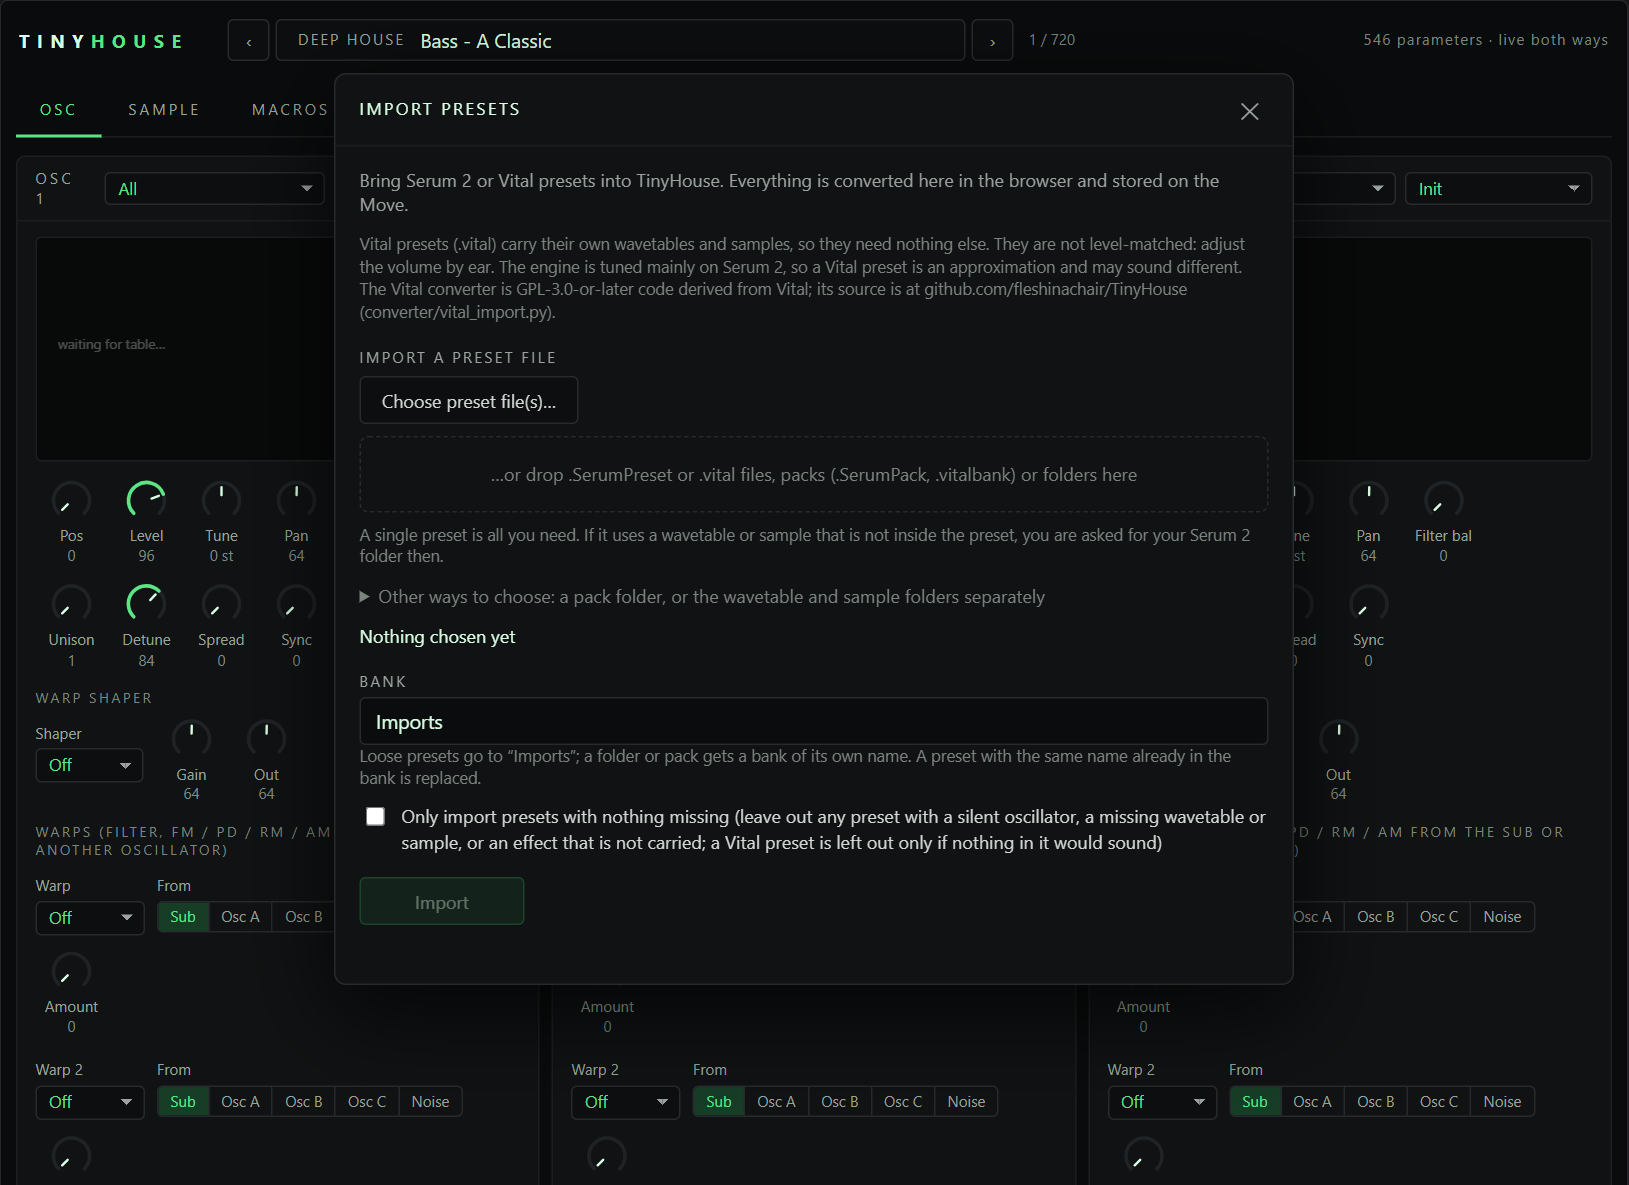
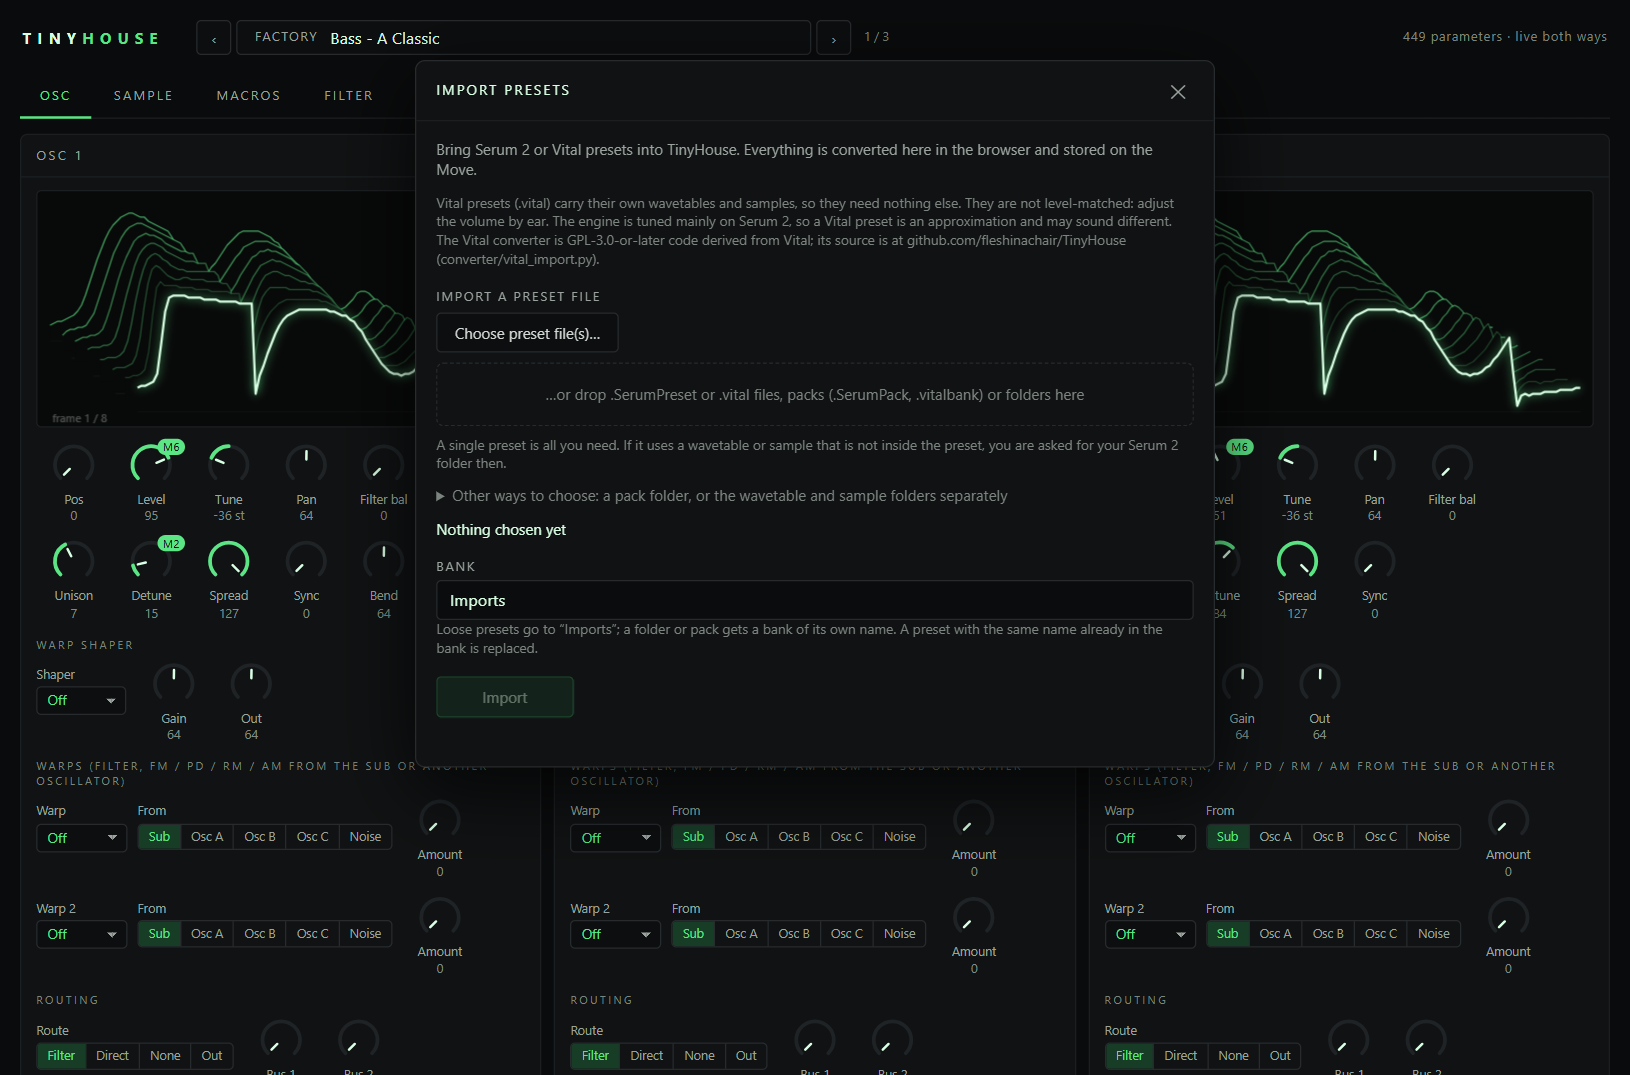
README: everything through the remote UI; presets that upgrade themselves; new import screenshot
- The Python importer section is gone from the user guide (developers find it through docs/DEVELOPMENT.md); "What you need" no longer asks for Python or Serum on Windows.
- Import: every preset that converts is imported and the report lists what it misses (the "only presets with nothing missing" option is gone); about one in four factory presets miss something and improve with later versions; ticked banks of a Serum Presets folder each get their own bank.
- New section "Updates improve your presets": originals kept on the Move, only the presets an update can change are converted again, re-import once for presets from before 0.9.13. TinyHouse Sources added to the file table.
- Stale limits fixed: a second distortion and tempo-synced Vital mod FX are carried (0.9.12); "363 of 626 import" replaced. Build steps use build_converter_dir.py; upgrading copies the converter folder and needs a Move restart.
- docs/img/remote-import.png retaken (no checkbox). help.json: Import is under the preset name; imported presets get better after an update.

diff --git a/README.md b/README.md
@@ -10,9 +10,8 @@ TinyHouse is its own engine on a small ARM box, not a copy of Serum or Vital: **
 or Vital original, but not the same.** Some come out very close, some less so, and a bank will always have a few that miss. Some features are not built yet (see
 [What is supported](#what-is-supported)), and a preset that leans on one of them loses that part of its sound; the import report says which. The same goes for Vital presets: the engine emulates Vital's oscillators, envelopes, filters and effects loosely, not exactly, and a Vital preset is not level-matched, so set its volume by ear.
 
-**This is experimental.** Importing in the browser is the easy route; it sets loudness, reverb and width from general rules. If you have Serum 2 on Windows and
-want presets to land closer to what you hear in the plugin, use the [Python scripts](#more-accurate-conversion-with-the-python-scripts), which can compare
-each preset against your own copy of it.
+**This is experimental.** Everything happens in the remote UI in your browser. Loudness, reverb and width are set from general rules, not matched to the plugin,
+so set them by ear. Presets you import get better on their own as TinyHouse is updated (see [Updates improve your presets](#updates-improve-your-presets)).
 
 ![The TinyHouse remote UI: tabs along the top, three wavetable oscillators on the Osc tab](docs/img/remote-ui.png)
 
@@ -22,8 +21,7 @@ each preset against your own copy of it.
 - Serum 2 presets (`.SerumPreset` files or a `.SerumPack`). Or Vital presets (`.vital` files, loose or zipped, or a `.vitalbank`; they carry their own wavetables and samples, so they need no other install). Nothing from Xfer or Vital Audio is included.
 - Serum 2 installed on your computer, for any preset that uses Serum's own wavetables or samples (most factory presets do). Serum's installer puts those files in your
   `Documents\Xfer\Serum 2 Presets` folder, and TinyHouse reads them from there; the plugin itself does not have to run. Without that folder those oscillators are silent.
-  Wavetables and samples stored inside the preset file itself are imported with it and need nothing from Serum 2. Serum 2 on Windows is also needed for the more accurate
-  [Python route](#more-accurate-conversion-with-the-python-scripts) (with Python 3.13).
+  Wavetables and samples stored inside the preset file itself are imported with it and need nothing from Serum 2.
 
 The browser import runs the converter inside the page, so it needs no Python on your computer, but the browser needs internet access (it loads the Python runtime from a CDN).
 
@@ -48,13 +46,25 @@ The browser import runs the converter inside the page, so it needs no Python on 
 - **Chrome's "Upload N files to this site?" prompt** appears when you choose a folder. Nothing is uploaded: the page reads the folder in your browser and sends only
   the files your presets use to the Move. Dropping the folder on the dialog avoids the prompt. For a folder picker that remembers your Serum folder (Chrome and
   Edge), add the Move's address (e.g. `http://move.local:7700`) to `chrome://flags/#unsafely-treat-insecure-origin-as-secure`, enable it and relaunch.
-- For a whole bank at once (Factory, a pack), use **Import whole banks from this folder** and tick the banks.
-- Press **Import**. Loose presets go into a bank called *Imports*, a pack or folder into a bank of its own name. A report lists each preset as *imported*,
-  *imported with parts missing* (and which) or *not imported* (and why).
+- For a whole bank at once, choose the folder that holds it. Choosing your whole Serum 2 Presets folder lists Factory, User and each pack you installed; tick the
+  ones you want and each goes into a bank of its own name.
+- Press **Import**. Loose presets go into a bank called *Imports*, a pack or folder into a bank of its own name. Every preset that converts is imported, including
+  ones with something missing, and the report lists what each one misses. Roughly one in four of Serum's factory presets miss an effect or a feature TinyHouse does
+  not have yet (see [What is supported](#what-is-supported)), so expect those to sound off; they improve as later versions add what is missing.
 
 4. **Play.** The new bank is in the preset browser. Pick a sound and it loads on the Move.
 
 Your presets go nowhere but your Move: the converter runs inside the browser page (which downloads the Python runtime it uses from a public CDN the first time).
+
+### Updates improve your presets
+
+Each preset you import keeps its original Serum or Vital file on the Move (in `UserLibrary/TinyHouse Sources/<bank>`), with a note of which parts of the converter
+it went through. When an update brings a better converter, the Move converts again the presets that update can change, in the background at low priority, and leaves
+the rest as they are. A preset that has not been done yet when you choose it is converted at once (the header reads "Upgrading to v..." for a moment). Nothing needs
+your computer or the remote UI, and you can play meanwhile.
+
+Presets imported before version 0.9.13 kept no original, so they cannot be upgraded: import them once more through the remote UI, with the same bank name (the
+wavetables and samples already on the Move are reused). The remote UI shows how many there are, and the Move's header reminds you once after an update.
 
 ## Tweaking and playing
 
@@ -138,11 +148,11 @@ There are also **two FX buses**, each a full copy of the rack, with their own os
 **Not carried yet**
 - FM, ring-mod and phase-distortion warps driven by the noise or by Filter 1; DLM, spectral tables, Sync Var.
 - Reverb filter models, and the rarer comb variants (Comb2, Combs).
-- A second distortion, compressor or delay; a filter placed before the distortion; sends moved by an LFO or envelope (the Distortion's Wet follows one).
+- A second compressor or delay; a filter placed before the distortion; sends moved by an LFO or envelope (the Distortion's Wet follows one).
 - The Bode frequency shifter: a preset whose only unsupported effect is a Bode imports without it and the report says so.
 - In Split and SplitMS branches, only the Distortion, Chorus / Flanger / Phaser (Distortion only for SplitMS), EQ and band reverbs are carried; a HyperD, Delay,
   Comp or Bode in a branch, and an EQ ahead of the distortion, are not.
-- Serum 1 presets (Serum 2 only). A Vital chorus, flanger or phaser that is tempo-synced still runs at its 120 BPM rate.
+- Serum 1 presets (Serum 2 only).
 
 A preset using something in the second list still imports, with that part left out, and the report says which.
 
@@ -151,38 +161,11 @@ A preset using something in the second list still imports, with that part left o
 Read these before you rely on it for a gig. TinyHouse is an early release (0.9).
 
 - **It sounds similar to the Serum 2 or Vital original, not identical.** Levels, filters, effects and the stereo image are matched against Serum (and, for Vital presets, measured against Vital), but some presets land closer than others. Reverb tails run 1 to 3 dB quieter than Serum's and the wet signal builds up a little faster.
-- **Not every preset comes across.** Of Serum 2's 626 factory presets, 363 import well enough to install. The rest use something listed under "Not carried yet" (Bode and some Filter FX models are the biggest groups) and are skipped, or import with that part left out. The import report says which.
-- **Tempo-synced chorus, flanger and phaser (Vital) do not follow the Move's tempo.** They run at their rate at 120 BPM. Synced LFOs do follow it.
+- **Every preset imports, but not every one sounds right yet.** Roughly one in four of Serum 2's factory presets use something listed under "Not carried yet" (a Filter FX that moves, Split bands, some Utils settings are the biggest groups) and import with that part left out. The import report says which, and an update that adds the feature fixes them on the Move.
 - **Heavy presets use a lot of CPU.** Measured on a Move over 720 installed presets, each held steady: the typical preset uses about a tenth of the Move's 2.9 ms audio block, the heaviest (Crescendo Bells) about 40 %, and about 40 presets have a block over half of it. One slot is fine; a set with several heavy slots can crackle, so use fewer of them or lighter presets. A dense granular preset is the most demanding thing it plays.
 - **The Move's wavetable list stops at 128 tables.** The WT1 to WT3 Table knobs list the first 128 tables of the library, or of the pack you pick with the WT Pack knob. A pack with more than 128 tables shows only its first 128 there.
 - **Macros: eight per slot, and the mapping is yours to keep tidy.** Assigning a macro never changes the sound, but if you move a control by hand afterwards the knob and the control drift apart until you press **Match knob**.
 - **You need your own Serum 2 files.** Nothing from Xfer or the preset authors is in this repository, and Serum 1 presets are not supported.
-
-## More accurate conversion with the Python scripts
-
-The Python importer does the same conversion but can also **play each preset through your own installed copy of Serum 2** and compare. That lets it:
-
-- **Set the loudness** of every preset from a measurement, instead of using one general offset.
-- **Set the reverb and width** from a measurement.
-- **Check the result**: it compares octave-band levels with that render and leaves out a preset that ends up too far from it, with the reason in a
-  `skipped_<bank>.md` report. It is stricter than the browser: a preset that uses something unsupported is dropped, not imported with a part missing.
-
-You need Serum 2 (the VST3 plugin) installed on Windows, Python 3.13 and a bash shell for the deploy scripts (Git Bash is fine). The files the importer needs are in
-`calibration/` (see [calibration/README.md](calibration/README.md)); the measurement probes it was built from are not in the repository.
-
-```
-pip install -r requirements.txt
-python converter/import_pack.py "C:\path\to\folder of .SerumPreset" --bank "My Pack"      # converts, renders in Serum, fits levels; writes out_import/My Pack/
-BANK="My Pack" sh ./deploy_wavetables.sh                                         # copy to the Move over SSH (each step keeps a rollback copy)
-sh ./deploy_samples.sh
-SRC="out_import/My Pack" BANK="My Pack" sh ./deploy_presets.sh
-```
-
-For Serum's own Factory presets, point it at `Presets\Factory` in your Serum 2 folder with `--bank Factory`; it keeps only presets that match Serum's render
-(about 360 of the 626) and takes hours, because every preset is rendered. If it stops, run the same command again with `--resume`. Reload the slot afterwards and
-the bank is in the preset browser. `converter/deephouse2move.py` converts a `.SerumPack` directly, and `converter/serum_paths.py` explains how Serum's folders are
-found (set `SERUM_ROOT` and `SERUM_VST` if yours are elsewhere). Renders are cached, so a second run is fast. [docs/DEVELOPMENT.md](docs/DEVELOPMENT.md) has the
-options and rules.
 
 ## Installing
 
@@ -194,13 +177,13 @@ TinyHouse is not in Schwung's module catalogue yet. You need a Move running Schw
 3. Reload the slot, or restart the Shadow UI, so the module loads. Then follow [The workflow](#the-workflow) from step 2.
 
 **To upgrade** a module that is already loaded, do not copy over its `dsp.so`: the Move is running it. Upload the new `dsp.so` under another name and rename it into place on the Move
-(`mv dsp.so.new dsp.so`), copy the other files, then reload the slot.
+(`mv dsp.so.new dsp.so`), copy the other files (the `converter` folder too), then restart the Move so the new `dsp.so` loads.
 
 **Building it yourself** (you want to change the code): you also need [zig](https://ziglang.org) to build the ARM module.
 
 ```
 bash schwung-tablor/scripts/zig-build.sh arm           # builds schwung-tablor/build/dsp.so
-python schwung-tablor/tools/build_import_bundle.py     # the converter the remote UI's Import runs
+python schwung-tablor/tools/build_converter_dir.py     # the converter: the remote UI's Import and the Move's preset upgrades run it
 bash schwung-tablor/scripts/deploy.sh ableton@move.local
 ```
 
@@ -220,6 +203,7 @@ Everything goes to the Move's `/data` partition, visible in Schwung's file manag
 | Wavetables (`.wav`) | `/data/UserData/UserLibrary/Wavetables/<bank>/` (tables stored inside a Serum preset: `<bank>/embedded/`) |
 | Sample sets (`.tbs`: Sample and Multisample oscillators, convolution impulses `conv_<id>.tbs`) | `/data/UserData/UserLibrary/Samples/<bank>/` |
 | Demo parts | `/data/UserData/schwung/midi/tinyhouse/` |
+| Originals kept for updates (each imported preset's Serum or Vital file, with `_deps/` notes and the noise / impulse audio it read) | `/data/UserData/UserLibrary/TinyHouse Sources/<bank>/` |
 | The module (`dsp.so`, the remote UI page, the converter) | `/data/UserData/schwung/modules/sound_generators/tinyhouse/` |
 
 Importing only *reads* your Serum files; nothing in your Serum folders changes. For each preset, the wavetables and samples it uses are converted and sent to the
@@ -236,8 +220,8 @@ and `UserLibrary/Wavetables` (leave other modules' folders alone); and the marke
 
 ## For developers
 
-The converter, the importer that matches loudness, reverb and width against Serum, the calibration harness, the translation rules and the roadmap are in
-[docs/DEVELOPMENT.md](docs/DEVELOPMENT.md). Contributions are welcome: see [CONTRIBUTING.md](CONTRIBUTING.md).
+The converter, the calibration harness that measures it against Serum (and a Python importer that matches loudness, reverb and width against a Serum 2 render,
+used to develop it), the translation rules and the roadmap are in [docs/DEVELOPMENT.md](docs/DEVELOPMENT.md). Contributions are welcome: see [CONTRIBUTING.md](CONTRIBUTING.md).
 
 ## Licences and what is not here
 
